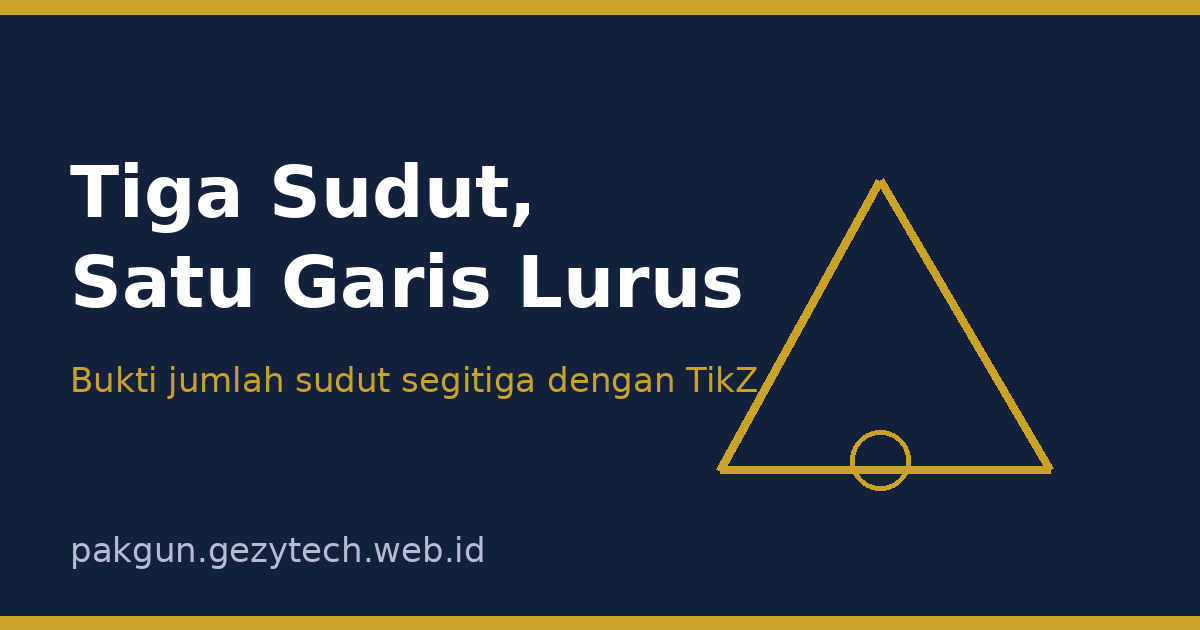
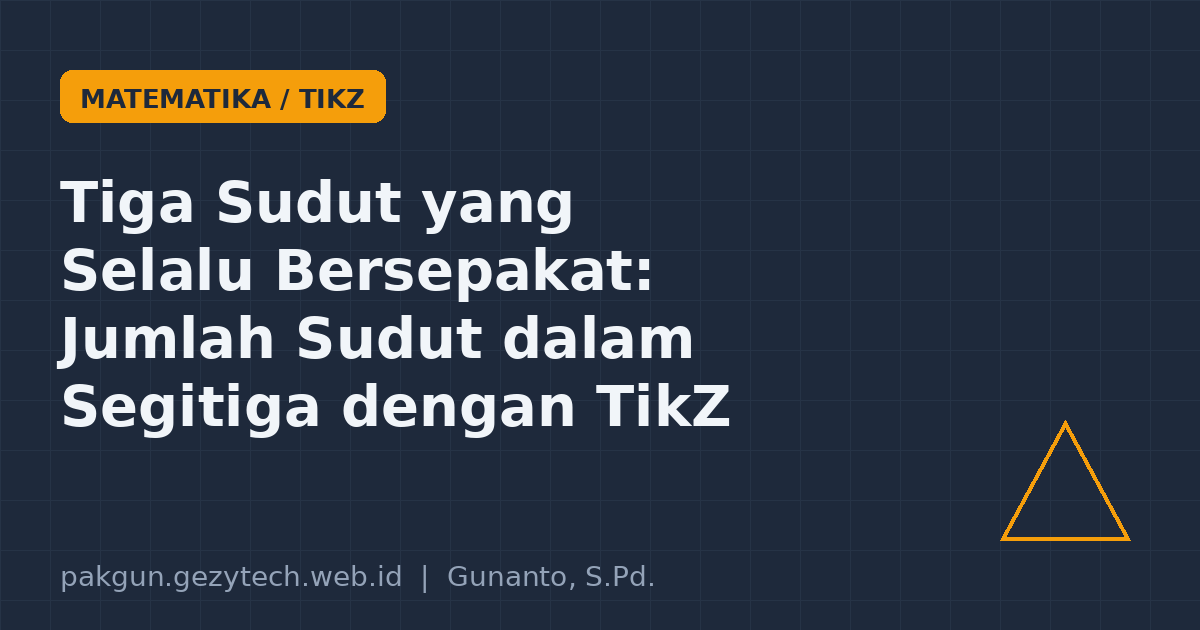
Tambah artikel: Tiga Sudut yang Selalu Bersepakat (TikZ jumlah sudut segitiga)

diff --git a/content/posts/tikz-jumlah-sudut-segitiga/tex/tikz-jumlah-sudut-segitiga.tex b/content/posts/tikz-jumlah-sudut-segitiga/tex/tikz-jumlah-sudut-segitiga.tex
@@ -1,0 +1,31 @@
+\documentclass[tikz,border=14pt]{standalone}
+\usepackage{xcolor}
+\definecolor{bg}{HTML}{171D2B}
+\definecolor{accent}{HTML}{F7B538}
+\usetikzlibrary{angles,quotes}
+\begin{document}
+\pagecolor{bg}
+\begin{tikzpicture}[scale=1.25, text=white, font=\small]
+  \coordinate (A) at (2.6,3);
+  \coordinate (B) at (0,0);
+  \coordinate (C) at (6,0);
+  \coordinate (P) at (-2.2,3);
+  \coordinate (Q) at (8.2,3);
+  % garis melalui A sejajar BC
+  \draw[thick, accent] (P) -- (Q);
+  % segitiga
+  \draw[thick, white] (A) -- (B) -- (C) -- cycle;
+  % sudut dalam segitiga
+  \pic[draw, white, angle radius=0.6cm, angle eccentricity=1.7, "$\alpha$" {text=accent}] {angle = A--C--B};
+  \pic[draw, white, angle radius=0.6cm, angle eccentricity=1.7, "$\beta$"  {text=accent}] {angle = C--B--A};
+  % sudut di A: kiri = beta (sehadap dengan B), kanan = alpha (sehadap dengan C)
+  \pic[draw, accent, angle radius=0.5cm, angle eccentricity=1.85, "$\beta$"  {text=accent}] {angle = P--A--B};
+  \pic[draw, accent, angle radius=0.5cm, angle eccentricity=1.85, "$\alpha$" {text=accent}] {angle = C--A--Q};
+  % titik dan nama
+  \fill[accent] (A) circle (1.8pt) node[above=13pt, white] {$A$};
+  \fill[accent] (B) circle (1.8pt) node[below left=-2pt, white] {$B$};
+  \fill[accent] (C) circle (1.8pt) node[below right=-2pt, white] {$C$};
+  \node[accent, above] at (7.0,3) {\scriptsize $\parallel BC$};
+  \useasboundingbox (-2.8,-0.8) rectangle (8.8,4.0);
+\end{tikzpicture}
+\end{document}

diff --git a/content/posts/tikz-jumlah-sudut-segitiga/index.md b/content/posts/tikz-jumlah-sudut-segitiga/index.md
@@ -1,89 +1,68 @@
 ---
-weight: 1
-title: "Tiga Sudut, Satu Garis Lurus: Bukti Jumlah Sudut Segitiga dengan TikZ"
-date: 2026-11-02T08:01:00+07:00
+title: "Tiga Sudut yang Selalu Bersepakat: Jumlah Sudut dalam Segitiga dengan TikZ"
+date: 2026-11-19T13:00:00+07:00
 draft: false
 authors: ["Gunanto"]
-description: "Siswa saya hafal bahwa jumlah sudut segitiga adalah 180 derajat, tetapi belum percaya sampai ia melihatnya sendiri: tiga sudut yang dipotong dari satu segitiga, dijajarkan, dan ternyata tepat membentuk satu garis lurus."
+description: "Mengajari siswa membuktikan jumlah sudut dalam segitiga dengan memotong sudut dan menggabungkan mereka di satu titik, lalu menggambarnya dengan TikZ agar busurnya jujur pada besarannya."
 featuredImage: "featured-image.png"
-tags: ["TikZ", "LaTeX", "Segitiga", "Sudut", "Bahan Ajar"]
-categories: ["Matematika", "TikZ"]
+tags: ["TikZ", "geometri", "sudut", "media pembelajaran"]
+categories: ["Matematika"]
 math:
   enable: true
 ---
 
-Pekan lalu, di kelas VII, seorang siswa mengangkat tangan di tengah pelajaran segitiga dan bertanya dengan jujur, "Pak, kok bisa pas 180 derajat? Siapa yang mengatur supaya jumlahnya selalu segitu?" Saya tersenyum, karena pertanyaannya tepat sekali. Di buku, kalimat itu tertulis sebagai fakta: jumlah sudut dalam segitiga adalah $180^\circ$. Siswa menghafalnya, menggunakannya untuk mencari sudut yang belum diketahui, dan mendapat nilai bagus. Tetapi menghafal bukanlah percaya. Selama ia belum melihat sendiri mengapa jumlahnya selalu pas, kalimat itu hanya terasa seperti aturan yang diturunkan dari langit, bukan sesuatu yang masuk akal.
-
-Saya tidak menjawabnya dengan dalil yang lebih panjang. Saya mengajak kelas itu menggambar satu segitiga, mengukur ketiga sudutnya, lalu memotong dan menempelkannya berjajar. Hasilnya, seperti yang akan saya tunjukkan dengan TikZ, adalah satu garis lurus — dan garis lurus besar sudutnya $180^\circ$. Bukti ini tidak memakai rumus apa pun, hanya gunting, tempelan, dan mata yang memperhatikan.
+Ada satu saat di kelas VII yang tidak pernah saya lupa. Kami sedang mengukur sudut-sudut dalam segitiga dengan busur derajat, dan satu kelompok mengangkat tangan dengan wajah bingung. "Pak, punya kami cuma 177 derajat. Apakah segitiganya cacat?" Semua kelompok lain juga mendapat angka yang berbeda-beda: 178, 180, 182, satu bahkan 176. Di papan tulis saya menuliskan kalimat yang sudah dicetak rapi di buku paket, "Jumlah sudut dalam segitiga adalah 180 derajat." Dan anak-anak menatap dua hal yang tidak cocok: kalimat yang mantap, dan pengukuran mereka yang rancu.
 
 <!--more-->
 
-## Segitiga yang sudutnya diukur dulu
+## Ketika pengukuran bilang tidak persis 180
 
-Langkah pertama adalah menggambar satu segitiga yang sudutnya tidak istimewa sama sekali. Saya sengaja tidak memakai segitiga siku-siku atau segitiga sama sisi, karena siswa sering mengira aturan 180 derajat hanya berlaku untuk segitiga yang "cantik". Segitiga yang saya gambar punya tiga sudut yang berbeda-beda: $61^\circ$, $45^\circ$, dan $74^\circ$. Kalau dijumlahkan, $61 + 45 + 74 = 180$, tepat. Tetapi di titik ini, jumlah itu masih sekadar hitungan di atas kertas, belum menjadi keyakinan.
+Momen itu sebenarnya momen emas, bukan momen gagal. Karena justru di situ siswa belajar sesuatu yang lebih dalam daripada rumus: pengukuran selalu punya galat. Busur derajat yang dibaca sedikit miring, garis sisi yang di gambar tidak persis lurus, mata yang menakar di antara dua tanda — semuanya membuat hasil ukur mendekati tapi tidak pernah persis 180. Kalau saya buru-buru bilang "kalian yang salah ukur", mereka hanya akan menuruti buku. Kalau saya biarkan mereka bergumul sebentar, mereka mulai bertanya hal yang jauh lebih berharga: kenapa yakin jumlahnya tepat 180? Siapa yang membuktikannya?
 
-Dengan TikZ, segitiga beserta tanda sudutnya saya gambar seperti ini. Setiap sudut diberi warna berbeda: biru untuk sudut $A$, merah untuk sudut $B$, dan emas untuk sudut $C$. Pewarnaan ini bukan hiasan: warna itulah yang membuat siswa bisa mengikuti jejak setiap sudut ketika ketiganya dipindahkan ke garis lurus.
+Pertanyaan itulah yang ingin saya jawab bukan dengan ucapan, tapi dengan pengalaman. Dan pengalaman itu ternyata bisa digambar — di kertas, dengan gunting, dan nanti di layar dengan TikZ.
+
+## Bukti dengan gunting: tiga sudut yang berpapasan
+
+Cara klasiknya sederhana dan sudah ratusan tahun dipakai guru: minta siswa menggambar sembarang segitiga di kertas, memotong ketiga sudutnya dengan gunting, lalu menyusun ketiga potongan itu bertemu di satu titik. Hasilnya selalu sama: ketiga sudut yang "berpapasan" itu berjajar rapi membentuk garis lurus. Dan garis lurus, seperti yang sudah mereka tahu, berjumlah 180 derajat.
+
+Aktivitas ini punya daya yang tidak dimiliki kalimat buku paket. Anak yang memotong sudutnya sendiri, menempelnya sendiri, dan melihat sendiri ketiga potongan itu membentuk lurusan, tidak perlu saya meyakinkan. Ia yang meyakinkan dirinya. Ada pula kejutan kecil yang selalu muncul: siswa yang menggambar segitiga paling jomplang — yang satu sudutnya hampir rata, yang lain tumpul — tetap mendapatkan lurusan yang sama. Sifat ini ternyata tidak peduli bentuk segitiganya. Jumlah sudut dalam segitiga adalah sifat yang tetap, dan bukti gunting membuat ketetapan itu terlihat.
+
+Tapi aktivitas gunting punya kelemahan yang sama seperti busur derajat: ia meyakinkan, tapi tidak membuktikan dengan ketat. Potongan kertas bisa miring saat ditempel. Untuk langkah berikutnya — bukti yang bisa dipertanggungjawabkan — saya bawa kelas ke gambar yang rapi.
+
+## Dari gunting ke gambar: menulis bukti dengan bantuan TikZ
+
+Bukti standarnya seperti ini. Ambil segitiga $ABC$. Tarik garis melalui $A$ yang sejajar dengan sisi $BC$. Sekarang perhatikan sudut di kanan-atas $A$ — sebut saja $\alpha$. Sudut itu dan sudut di $C$ adalah sudut dalam berseberangan pada dua garis sejajar, jadi besarnya sama. Begitu pula sudut di kiri-atas $A$, sebut saja $\beta$: ia sama besar dengan sudut di $B$. Maka di titik $A$ kini berjajar tiga sudut sepanjang garis lurus: $\beta$, lalu sudut dalam segitiga di $A$ yang saya sebut $\gamma$, lalu $\alpha$. Karena $\beta$ dan $\alpha$ masing-masing mewakili sudut $B$ dan sudut $C$, jumlah ketiga sudut dalam segitiga itu tepat sama dengan $180^{\circ}$ — setengah putaran, sepanjang garis lurus.
+
+Di kertas papan tulis, gambar seperti ini hampir selalu tidak sejajar sejajar — garis yang saya tarik sedikit menikung, sudut yang saya tandai tidak persis sebesar pasangannya, dan siswa yang kritis langsung berkomentar. Di sinilah TikZ mengambil alih. Karena TikZ menghitung sudutnya dari koordinat, bukan dari goresan tangan, gambar hasilnya jujur: garisnya benar-benar sejajar, dan sudut-sudut yang saya klaim sama besar memang tampak sama besar.
+
+Berikut inti kode yang saya pakai (berkas lengkapnya saya lampirkan di bawah):
 
 ```latex
-\begin{tikzpicture}
-  \coordinate (A) at (0,0);
-  \coordinate (B) at (5,0);
-  \coordinate (C) at (1.8,3.2);
+\usetikzlibrary{angles,quotes}
+\begin{tikzpicture}[scale=1.2]
+  \coordinate (A) at (2,2.2);
+  \coordinate (B) at (0,0);
+  \coordinate (C) at (5,0);
   \draw[thick] (A) -- (B) -- (C) -- cycle;
-  \node[below left] at (A) {$A$};
-  \node[below right] at (B) {$B$};
-  \node[above] at (C) {$C$};
-  \pic[draw, fill=blue!20, angle radius=0.8cm, "$61^\circ$"]
-    {angle = B--A--C};
-  \pic[draw, fill=red!20, angle radius=0.8cm, "$45^\circ$"]
-    {angle = C--B--A};
-  \pic[draw, fill=goldenrod!30, angle radius=0.8cm, "$74^\circ$"]
-    {angle = A--C--B};
+  \draw[thick, accent] (-1,2.2) -- (6,2.2);      % garis sejajar BC lewat A
+  % sudut dalam segitiga
+  \pic[draw, "$\alpha$", angle eccentricity=1.5] {angle = B--C--A};
+  \pic[draw, "$\beta$",  angle eccentricity=1.5] {angle = A--B--C};
+  \pic[draw, "$\gamma$", angle eccentricity=1.4] {angle = C--A--B};
 \end{tikzpicture}
 ```
 
-Perintah `\pic` dengan pustaka `angles` mengerjakan bagian tersulit kalau digambar manual: menggambar busur tepat di antara dua sisi yang bertemu di satu titik. Saya hanya menyebutkan tiga titiknya, misalnya `B--A--C` untuk sudut di $A$. Karena segitiganya digambar dari koordinat, besar sudut yang tertulis memang sesuai bentuknya, bukan tempelan angka.
+Ketika saya menampilkan gambar hasil kompile ini di kelas, ada siswa yang bertanya, "Pak, kalau segitiganya diganti, angkanya ikut berubah?" Jawabannya ya — dan itu justru pelajaran. Besar tiap sudut berubah, tapi jumlahnya tidak. Kalau saya mengganti koordinat $A$ di kode, dua sudut berubah besar, sudut ketiga menyesuaikan, dan jumlahnya tetap 180. Ketetapan itu tidak disebutkan, ia diam-diam menunjukkan dirinya. Untuk gambar lengkap beserta label sudut dan penjelasannya, silakan lihat gambar di bawah.
 
-## Memotong ketiga sudut dan menempelkannya berjajar
+![](gambar-bukti-sudut-segitiga.png)
+*Gambar 1. Bukti jumlah sudut segitiga: garis melalui $A$ sejajar dengan $BC$; sudut $\beta$ dan $\alpha$ di titik $A$ berpasangan dengan sudut di $B$ dan $C$, sehingga ketiganya berjajar sepanjang garis lurus.*
 
-Inilah bagian yang membuat kelas itu diam sejenak. Bayangkan ketiga sudut segitiga tadi dipotong dengan gunting, lalu ditempelkan satu demi satu di atas satu garis lurus, tanpa celah dan tanpa tumpang tindih. Sudut biru $61^\circ$ paling kiri, sudut merah $45^\circ$ di tengah, dan sudut emas $74^\circ$ menutup barisan di kanan. Ketika potongan terakhir ditempelkan, sisi terluarnya jatuh tepat di atas garis lurus itu, tidak kurang dan tidak lebih.
+## Yang diwariskan aktivitas ini
 
-Gambar kedua menunjukkan hasil tempelan itu. Tiga juring berwarna dijajarkan dari satu titik yang sama di atas garis: juring biru sampai $119^\circ$, juring merah melanjutkannya sampai $74^\circ$, dan juring emas menutupnya sampai $0^\circ$. Ketiganya bersama-sama menutupi tepat setengah lingkaran, dan setengah lingkaran adalah $180^\circ$. Tidak ada yang perlu dihafal di sini, karena mata sudah melihatnya.
+Apa yang sebenarnya ditinggalkan aktivitas ini di kepala siswa? Menurut saya tiga hal. Pertama, mereka tahu bedanya pengukuran dan pembuktian: busur derajat memberi petunjuk, gunting memberi keyakinan, gambar sejajar memberi alasan. Kedua, mereka mengenal trik geometri yang akan dipakai berkali-kali lagi nanti: menarik garis bantu sejajar. Garis bantu itu seperti membuka jalan tikus — sekali terlihat, siswa mulai berani mencoba menarik garis bantu sendiri di soal lain. Ketiga, mereka melihat bahwa sifat geometri tidak perlu dihafal; ia bisa diperiksa, dibuktikan, dan dipertanggungjawabkan.
 
-```latex
-\begin{tikzpicture}
-  \coordinate (O) at (0,0);
-  \coordinate (P180) at (-1.8,0);
-  \coordinate (P119) at (-0.87,1.57);
-  \coordinate (P74) at (0.50,1.73);
-  \coordinate (P0) at (1.8,0);
-  \draw[thick] (-2.2,0) -- (2.2,0);
-  \fill[blue!30] (O) -- (P119) arc (119:180:1.8) -- cycle;
-  \fill[red!30] (O) -- (P74) arc (74:119:1.8) -- cycle;
-  \fill[goldenrod!40] (O) -- (P0) arc (0:74:1.8) -- cycle;
-  \draw[thick] (O) -- (P180);
-  \draw[thick] (O) -- (P119);
-  \draw[thick] (O) -- (P74);
-  \draw[thick] (O) -- (P0);
-\end{tikzpicture}
-```
+Saya juga belajar satu hal dari kegiatan ini. Jangan menaruh kalimat "jumlah sudut dalam segitiga adalah 180" di papan sebelum siswa bergumul dengan pengukuran yang tidak persis 180. Kalimat itu jauh lebih berarti setelah mereka mengalaminya sendiri. Pengalaman dulu, penamaan kemudian. Urutan ini yang membuat rumus tidak terasa seperti barang jadi yang diturunkan dari langit, tapi seperti kesimpulan yang mereka ambil sendiri.
 
-Satu hal teknis yang patut diperhatikan pada kode juring di atas: busur setiap juring ditulis dari sudut yang lebih kecil ke sudut yang lebih besar, misalnya `arc (119:180:1.8)` untuk juring biru. TikZ menggambar busur berlawanan arah jarum jam, sehingga urutan yang terbalik akan menghasilkan juring yang memutar jauh mengitari lingkaran, bukan potongan kecil yang kita maksud. Kesalahan kecil ini hasilnya besar, dan saya sendiri pernah mengalaminya.
+Dan untuk saya pribadi, kegiatan ini adalah contoh kecil bagaimana TikZ bukan sekadar alat menggambar cantik. Ia alat kejujuran matematis: gambar yang dibuat dari koordinat tidak bisa bohong. Kalau sudut yang saya klaim sama besar ternyata tampak berbeda, berarti klaim saya yang salah, dan saya perbaiki sampai gambar jujur. Di kelas yang semakin akrab dengan gambar digital, kejujuran seperti ini yang ingin saya ajarkan terlebih dulu.
 
-Di kelas, saya tidak mulai dari gambar TikZ ini. Saya mulai dari kertas: setiap kelompok menggunting segitiga dari kertas bekas, mewarnai ketiga sudutnya, lalu menempelkannya di buku. Baru setelah mereka melihat garis lurus itu terbentuk di tangan mereka sendiri, saya menampilkan gambar TikZ-nya di layar. TikZ di sini bukan pengganti pengalaman menggunting, melainkan cara mengabadikannya menjadi bahan ajar rapi yang bisa dipakai ulang tahun depan.
-
-## Tiga kesalahan yang sering saya temui
-
-Pertama, siswa mengukur sudut dengan busur derajat yang titik pusatnya tidak tepat di titik sudut. Hasilnya meleset beberapa derajat, jumlahnya menjadi 178 atau 183, lalu ia menyimpulkan aturannya salah. Padahal yang salah adalah pengukurannya. Sebelum membicarakan bukti apa pun, saya selalu memeriksa cara mereka meletakkan busur: titik pusat tepat di titik sudut, dan garis nol berimpit dengan salah satu sisi.
-
-Kedua, siswa mengira aturan ini hanya berlaku untuk segitiga tertentu. "Kalau segitiganya lancip semua, Pak, apa tetap 180?" Pertanyaan seperti ini justru bagus, karena membuka jalan untuk mencoba segitiga lain: segitiga tumpul, siku-siku, atau yang sangat gepeng. Di TikZ, mencoba segitiga lain semudah mengubah satu koordinat. Setelah tiga segitiga berbeda semuanya menghasilkan garis lurus yang sama, kecurigaan itu pelan-pelan hilang.
-
-Ketiga, siswa mencampuradukkan sudut dalam dengan sudut luar segitiga. Ketika satu sisi diperpanjang, sudut yang terbentuk di luar itu sering ikut dihitung ke dalam jumlah 180 derajat, padahal ia bukan bagian dari tiga sudut dalam. Di sinilah warna pada gambar pertama kembali membantu: hanya tiga warna itulah yang boleh dipotong dan ditempelkan.
-
-## Penutup: dari hafalan menjadi keyakinan
-
-Siswa yang bertanya pekan lalu itu kini tidak lagi bertanya siapa yang mengatur jumlahnya selalu pas. Ia sudah melihat sendiri jawabannya, bukan karena saya mengatakannya dengan lebih meyakinkan, melainkan karena tangannya sendiri yang memotong dan menempelkan. Itulah bedanya menghafal dan memahami: hafalan berhenti pada kalimatnya, pemahaman berhenti pada buktinya.
-
-Kalau Bapak dan Ibu mengajar materi ini minggu depan, saran saya sederhana: beri waktu sepuluh menit untuk menggunting sebelum memberi rumus. Biarkan siswa yang menemukan garis lurusnya. Gambar TikZ di artikel ini bisa dipakai sebagai penutup pelajaran atau lembar kerja cetak. Aturan yang ditemukan sendiri selalu lebih lama tinggalnya daripada aturan yang sekadar didiktekan.
-
-📎 **Berkas TikZ lengkap:** [jumlah-sudut-segitiga.tex](tex/jumlah-sudut-segitiga.tex) — dokumen siap kompilasi (butuh paket `tikz`). Silakan ganti angka-angkanya untuk dokumen Anda sendiri.
+> 📎 **Berkas TikZ lengkap:** [tikz-jumlah-sudut-segitiga.tex](tex/tikz-jumlah-sudut-segitiga.tex) — siap kompilasi (butuh paket `tikz` dan `tikz-angles`).
